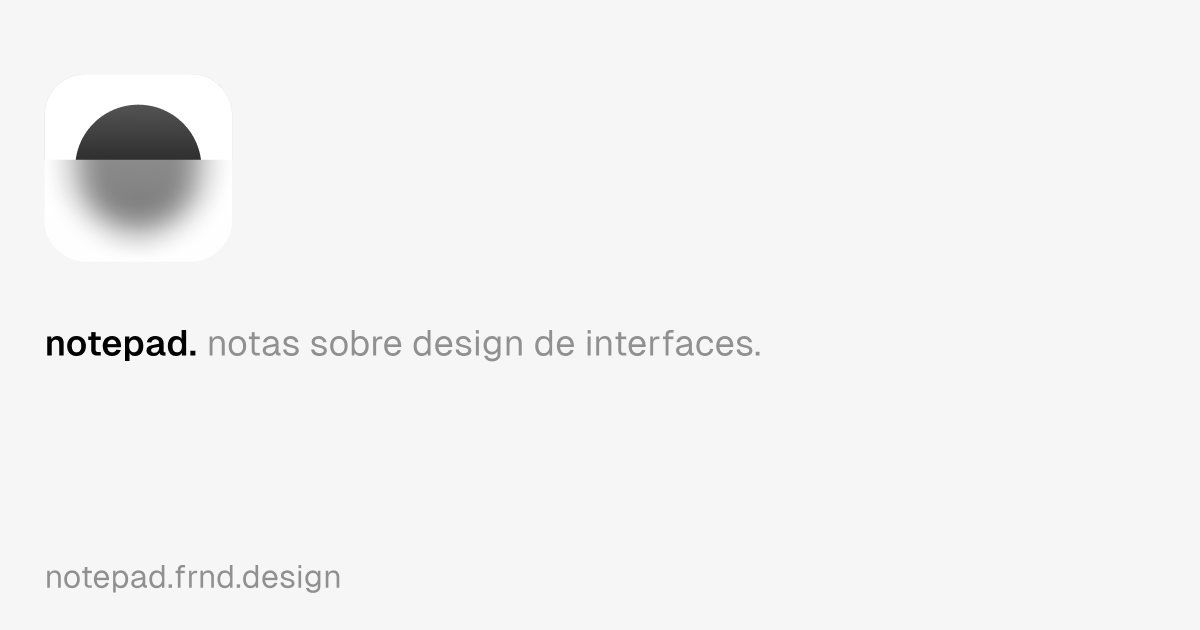
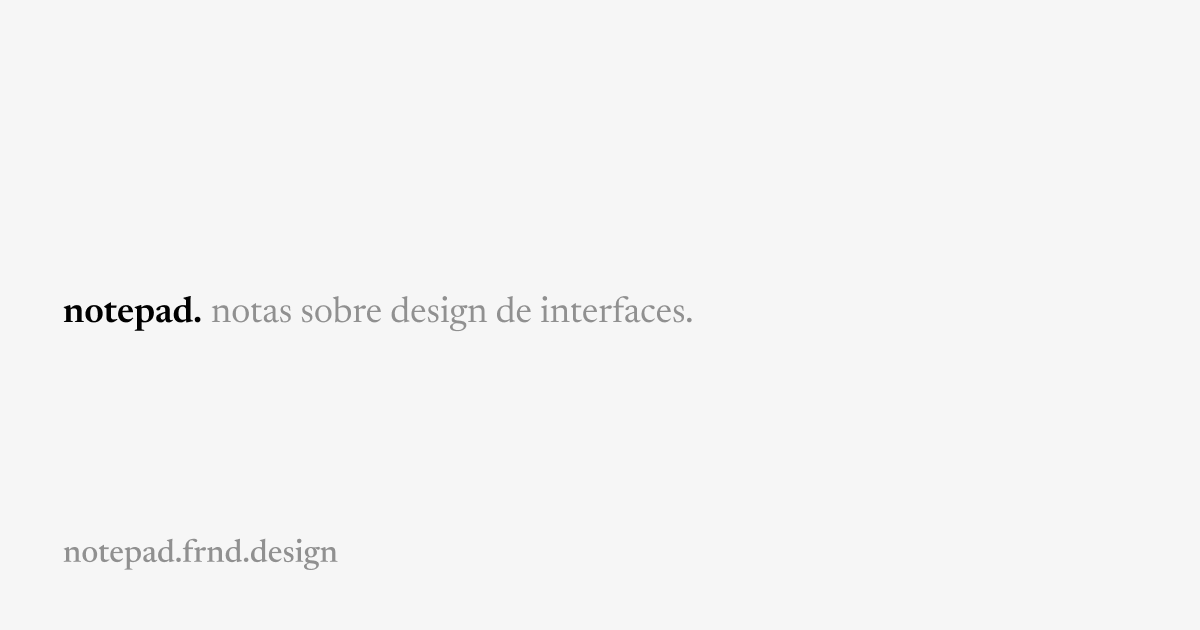
typeface changes

Changed region(s): [[0.0308, 0.4825, 0.6475, 0.573], [0.0308, 0.1508, 0.185, 0.3921], [0.0308, 0.8444, 0.2775, 0.9349]]

diff --git a/static/stylesheets/style.css b/static/stylesheets/style.css
@@ -12,6 +12,11 @@
     --divisor-color: #ebebeb;
     --wrap-width: 700px;
     --dock-space: 6px;
+    --font-size-base: 1.6rem;
+    --font-family-sans: 'Inter', sans-serif;
+    --font-family-serif: 'Instrument Serif', sans-serif;
+    --font-weight-base: 400;
+    --font-weight-bold: 700;
 }
 
 html {
@@ -61,12 +66,12 @@ h5,
 h6 {
     margin: 0;
     padding: 0;
-    font-weight: 600;
-    font-size: 1.6rem;
+    font-weight: 500;
+    font-size: var(--font-size-base);
 }
 
 strong {
-    font-weight: 600;
+    font-weight: var(--font-weight-bold);
 }
 
 a {
@@ -98,6 +103,7 @@ p code {
     border: 1px solid var(--divisor-color);
     border-radius: 4px;
     padding: 0 8px;
+    font-size: 1.5rem;
 }
 
 figure {
@@ -114,9 +120,9 @@ body {
     margin: 0;
     padding: 0;
     background-color: var(--background-color);
-    font-family: 'Inter', sans-serif;
-    font-size: 1.6rem;
-    font-weight: 500;
+    font-family: var(--font-family-sans);
+    font-size: var(--font-size-base);
+    font-weight: var(--font-weight-base);
     color: var(--primary-text-color);
 }
 
@@ -137,15 +143,29 @@ body {
 
 .header span {
     color: var(--secondary-text-color);
-    font-weight: 500;
+    font-weight: var(--font-weight-base);
 }
 
 .header h1 {
     margin: 5vh 0;
 }
 
+.post__list .post__header a {
+    display: grid;
+    grid-template-columns: auto 1fr auto;
+    grid-column-gap: 10px;
+}
+
 .post__list h2 {
-    font-weight: 500;
+    font-weight: 400;
+    position: relative;
+    line-height: 150%;
+}
+
+.post__list .spacer {
+    width: 100%;
+    height: 1px;
+    border-bottom: 1px dotted #ccc;
 }
 
 .post__list .post__item {
@@ -170,8 +190,14 @@ body {
 }
 
 .post__header h1 {
-    font-weight: 600;
-    margin-bottom: 4vh;
+    font-weight: var(--font-weight-base);
+    margin-bottom: 1vh;
+    font-size: 6rem;
+    font-family: "Instrument Serif", serif;
+}
+
+.post__meta {
+    margin-bottom: 5vh;
 }
 
 .post__content {
@@ -184,12 +210,33 @@ body {
     margin-bottom: 32px;
 }
 
+.post__content p:last-child {
+    margin-bottom: 16px;
+}
+
 .post__content h2,
 .post__content h3,
 .post__content h4,
 .post__content h5 {
-    font-weight: 500;
+    font-weight: var(--font-weight-base);
     color: var(--secondary-text-color);
+}
+
+.post__content h2 {
+    font-family: var(--font-family-serif);
+    font-size: 3rem;
+    margin-bottom: 12px;
+}
+
+.post__content h3 {
+    font-family: var(--font-family-sans);
+    font-size: 1.8rem;
+    margin-bottom: 12px;
+}
+
+.post__content h4,
+.post__content h5 {
+    font-size: 1.6rem;
 }
 
 .post__content a {
@@ -201,12 +248,15 @@ body {
     max-width: 100%;
 }
 
-.post__content:after {
-    content: "";
-    display: block;
-    width: 50px;
-    height: 1px;
-    background-color: var(--divisor-color);
+.post__footer {
+    display: flex;
+    justify-content: space-between;
+    align-items: center;
+
+    & a {
+        font-size: 1.2rem;
+        color: var(--secondary-text-color);
+    }
 }
 
 .main {
@@ -276,6 +326,14 @@ body {
     border-radius: 10px;
 }
 
+pre code.hljs {
+    font-size: 1.5rem;
+}
+
+.footer {
+    border-top: 1px solid var(--divisor-color);
+}
+
 .footer-links {
     width: 100%;
     display: flex;
@@ -291,6 +349,7 @@ body {
     width: 100%;
     display: flex;
     flex-direction: row;
+    align-items: center;
 }
 
 .footer-links ul:nth-child(2) {

diff --git a/layouts/partials/footer.html b/layouts/partials/footer.html
@@ -2,19 +2,15 @@
     <!-- {{- partial "nav-dock.html" . -}} -->
     <div class="footer-links">
         <ul>
-            {{ if .IsHome }} 
-            <li><a href="#top">↑ Topo</a></li>
-            {{ end }}
-
             {{ if not .IsHome }} 
-            <li><a href="/">← Voltar</a></li>
+            <li><a href="/">Início</a></li>
             {{ end }}
 
             <li><a href="/sobre">Sobre</a></li>
         </ul>
 
         <ul>
-            <li><a href="https://x.com/frrrnd" target="_blank">𝕏</a></li>
+            <li><a href="https://x.com/frrrnd" target="_blank">x.com</a></li>
             <li><a href="https://layers.to/fer" target="_blank">Layers</a></li>
         </ul>
     </div>

diff --git a/layouts/partials/head.html b/layouts/partials/head.html
@@ -22,5 +22,10 @@
 	<link rel="apple-touch-icon" href="{{ .Site.BaseURL }}images/favicon-128.png">
 	<link rel="preconnect" href="https://fonts.googleapis.com">
 	<link rel="preconnect" href="https://fonts.gstatic.com" crossorigin>
-	<link href="https://fonts.googleapis.com/css2?family=Inter:wght@400;600&display=swap" rel="stylesheet">
+
+	<link href="https://fonts.googleapis.com/css2?family=Instrument+Serif&display=swap" rel="stylesheet">
+
+	<link href="https://fonts.googleapis.com/css2?family=Inter:wght@400;700&display=swap" rel="stylesheet">
+
+	<link href="https://fonts.googleapis.com/css2?family=Newsreader:opsz,wght@6..72,300;6..72,400;6..72,500&display=swap" rel="stylesheet">
 </head>

diff --git a/layouts/_default/single.html b/layouts/_default/single.html
@@ -7,15 +7,14 @@
 		<article class="post__item">
 			<header class="post__header">
 				<h1>{{ .Title }}</h1>
+				<div class="post__meta">
+					<time>{{ .Date.Format "02.01.2006" }} </time>
+				</div>
 			</header>
 
 			<section class="post__content">
 				{{ .Content }}
 			</section>
-
-			<footer class="post__footer">
-				<time>{{ .Date.Format "02.01.2006" }} </time>
-			</footer>
 		</article>
 
 </main>

diff --git a/layouts/partials/home.html b/layouts/partials/home.html
@@ -7,6 +7,7 @@
             <header class="post__header">
                 <a href="{{ .Permalink }}" title="{{ .Title }}">
                     <h2>{{ .Title }}</h2>
+                    <div class="spacer"></div>
                     <time>{{ .Date.Format "02.01.2006" }}</time>
                 </a>
             </header>

diff --git a/layouts/page/sobre.html b/layouts/page/sobre.html
@@ -12,10 +12,6 @@
 			<section class="post__content">
 				{{ .Content }}
 			</section>
-
-			<footer class="post__footer">
-				<time>{{ .Date.Format "02.01.2006" }} </time>
-			</footer>
 		</article>
 
 </main>

diff --git a/content/sobre/_index.md b/content/sobre/_index.md
@@ -10,6 +10,6 @@ layout: "sobre"
 
 Esse pequeno blog foi feito pra reunir minhas notas e estudos sobre design de interfaces.
 
-Você pode me achar pelo <a href="https://x.com/frrrnd" target="_blank">X</a> e no <a href="https://layers.to/fer" target="_blank">Layers</a>.
+Você pode me achar pelo <a href="https://x.com/frrrnd" target="_blank">x.com</a> e no <a href="https://layers.to/fer" target="_blank">Layers</a>.
 
 Esse blog é feito com <a href="https://gohugo.io" target="_blank">Hugo</a> e escrito em Markdown. Hospedado e gerado pelo <a href="https://github.com" target="_blank">GitHub</a>.
